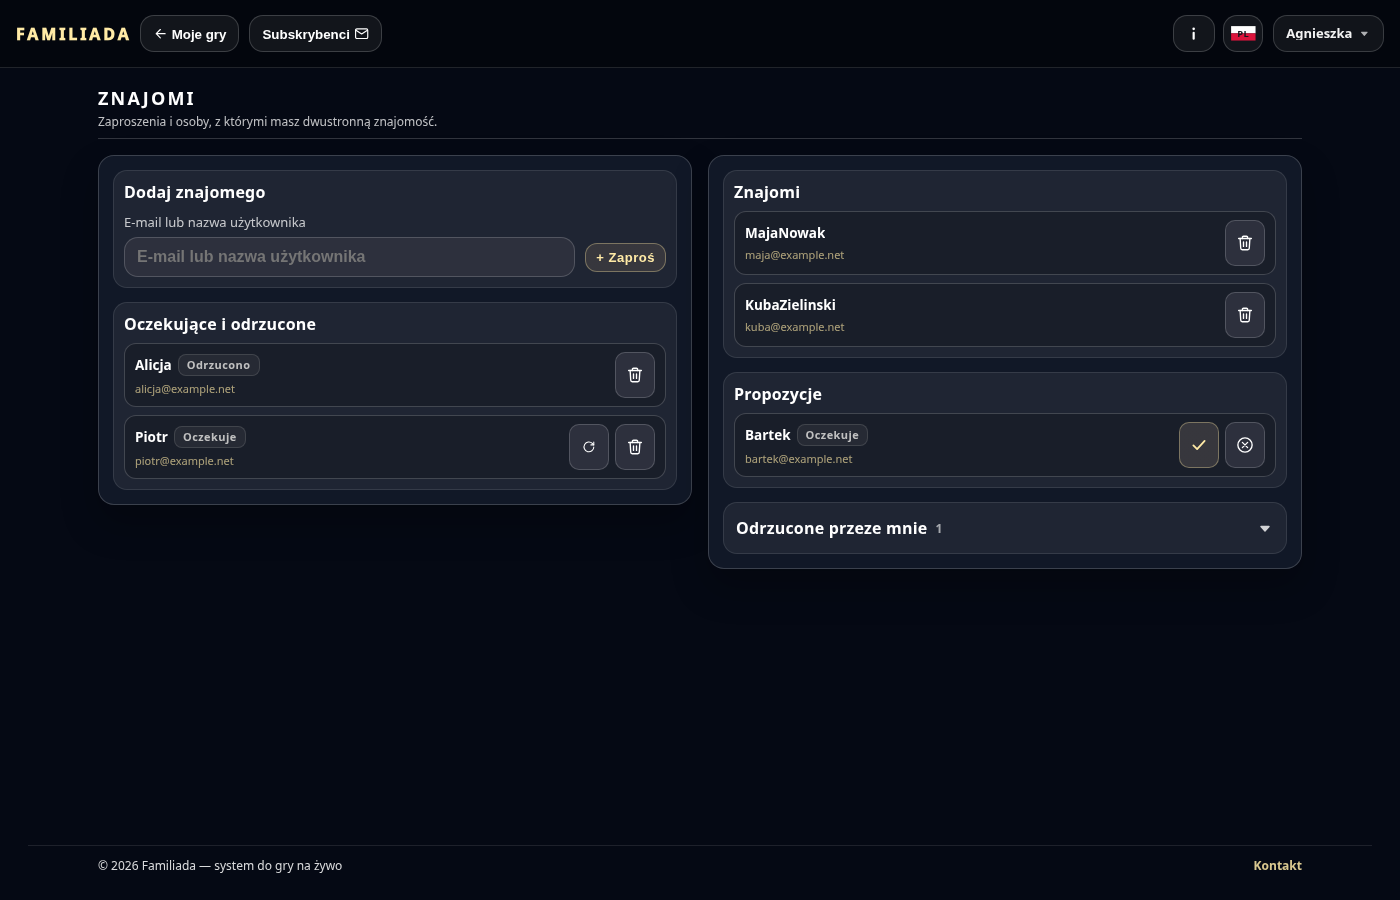
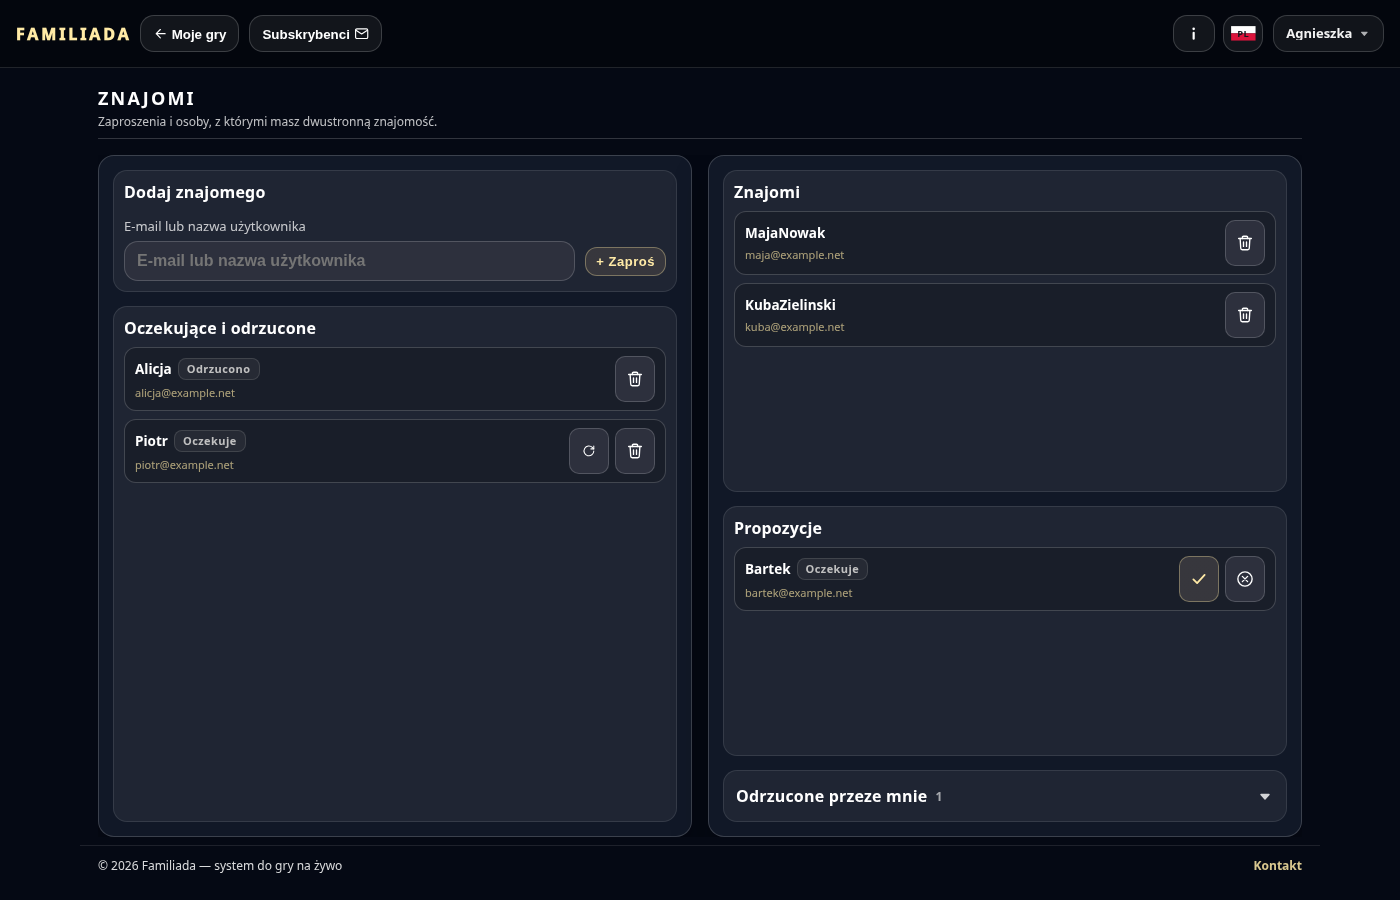
feat(contacts): fill workspace height with independent list scrolling

diff --git a/web/shared/css/contacts.css b/web/shared/css/contacts.css
@@ -1,10 +1,10 @@
 /* Znajomi i Subskrybenci: dwie karty, wspólne sekcje i wiersze odbiorców. */
-.contacts-body{ min-height: 100dvh; }
-.contacts-body > main.wrap{ width: 100%; max-width: 1240px; box-sizing: border-box; padding: 18px; }
+.contacts-body{ height: 100dvh; min-height: 100dvh; display: flex; flex-direction: column; overflow: hidden; }
+.contacts-body > main.wrap{ width: 100%; max-width: 1240px; box-sizing: border-box; padding: 18px; flex: 1 1 auto; min-height: 0; display: flex; flex-direction: column; overflow: hidden; }
 .contacts-body .bar{ margin-bottom: 16px; }
 .contacts-body .title{ font-size: 18px; font-weight: 900; letter-spacing: .12em; text-transform: uppercase; }
 .contacts-body .hint{ margin-top: 4px; font-size: 12px; color: var(--muted); }
-.contacts-layout{ display: grid; grid-template-columns: minmax(0,1fr) minmax(0,1fr); gap: 16px; align-items: start; }
+.contacts-layout{ display: grid; grid-template-columns: minmax(0,1fr) minmax(0,1fr); gap: 16px; align-items: stretch; flex: 1 1 auto; min-height: 0; overflow: hidden; }
 .contacts-card{ --under: #111827; min-width: 0; padding: 14px; background: #111827; border: 1px solid var(--line2); border-radius: 16px; box-shadow: 0 18px 36px rgba(0,0,0,.25); }
 .contacts-card .shareSection{ margin-top: 14px; }
 .contacts-card > .shareSection:first-child{ margin-top: 0; }
@@ -22,7 +22,7 @@
 }
 
 /* Wypustki korzystają wprost z games.css; na komputerze obie kolumny. */
-.contacts-tabs{ margin: 0; --tab-height: 36px; --tab-extra: 1px; }
+.contacts-tabs{ margin: 0; --tab-height: 36px; --tab-extra: 1px; flex: 1 1 auto; min-height: 0; }
 .contacts-tabs > .tabs-strip{ display: none; }
 .contacts-card[hidden]{ display: none; }
 @media (max-width: 720px){
@@ -34,3 +34,16 @@
   .contacts-tabs:has([data-contact-tab="invite"].active) #contactsInvite{ border-top-left-radius: 0; }
   .contacts-tabs:has([data-contact-tab="received"].active) #contactsReceived{ border-top-right-radius: 0; }
 }
+
+/* Wysokość karty wypełnia obszar pracy; scroll należy do poszczególnych list. */
+.contacts-card{ display: flex; flex-direction: column; min-height: 0; overflow: hidden; }
+#contactsOutgoing{ display: flex; flex-direction: column; flex: 1 1 auto; min-height: 0; }
+.contacts-card .shareSection{ display: flex; flex-direction: column; flex: 1 1 auto; min-height: 0; }
+.contacts-card .contacts-add,
+.contacts-card .shareSection:has(.shareList[hidden]){ flex: 0 0 auto; }
+.contacts-card .shareSectionTitle{ flex: 0 0 auto; }
+.contacts-card .shareList--scroll{ max-height: none; flex: 1 1 auto; min-height: 0; align-content: start; }
+.contacts-card .shareRow{ flex-shrink: 0; }
+.contacts-body .footer{ flex: 0 0 auto; }
+
+.contacts-card .shareSection[hidden]{ display: none; }

diff --git a/tests/e2e/friends.spec.js b/tests/e2e/friends.spec.js
@@ -289,6 +289,21 @@ test("kontakty: wypustki mobilne, liczniki i stan zakładek", async ({ browser }
       await expect(owner.page.locator("#contactsTabs")).toBeHidden();
       await expect(owner.page.locator("#contactsInvite")).toBeVisible();
       await expect(owner.page.locator("#contactsReceived")).toBeVisible();
+      const scrolling = await owner.page.evaluate(() => {
+        const cards = [...document.querySelectorAll(".contacts-card")].map(el => el.getBoundingClientRect());
+        const lists = [...document.querySelectorAll(".shareList")].filter(el => !el.hidden && el.querySelector(".shareRow"));
+        for (const list of lists) {
+          const row = list.querySelector(".shareRow");
+          for (let i=0;i<30;i++) list.append(row.cloneNode(true));
+        }
+        lists[0].scrollTop=70; lists[1].scrollTop=120;
+        return { independent: lists[0].scrollTop===70 && lists[1].scrollTop===120,
+          equal: Math.abs(cards[0].height-cards[1].height)<1,
+          full: cards.every(card => Math.abs(card.bottom-document.querySelector(".contacts-layout").getBoundingClientRect().bottom)<1),
+          pageOverflow: document.documentElement.scrollHeight>innerHeight };
+      });
+      expect(scrolling).toEqual({ independent:true, equal:true, full:true, pageOverflow:false });
+      await owner.page.reload();
       await owner.page.setViewportSize({ width: 390, height: 844 });
       await received.focus(); await received.press("ArrowLeft");
       await expect(invite).toHaveAttribute("aria-selected", "true");

diff --git a/docs/wdrozenia.md b/docs/wdrozenia.md
@@ -401,3 +401,7 @@ Stan szczegółowy:
 | 2026-10-11 | Powrót do kolejności E19 §5 | Użytkownik polecił wrócić do planu. Pierwszy brak pkt 2: mobilne wypustki kontaktów. Implementacja na branchu: CSS Gier, tabs.js/PAGES, liczniki, URL/powroty/focus Go, dwa panele desktop/jeden mobile; zachowanie formularza, keyboard/ARIA, osiem zrzutów. Unit 411/411, lokalny renderer bez overflow ✓. | Branch E2E kontaktów (nowy test zakładek + regresja active/odmowy), potem main. Następnie pkt 3: odmowy/cooldowny Subskrybentów, pkt 4 Bazy, pkt 5 Ankiety. |
 
 | 2026-10-11 | Kontakty / wysokość wypustek | Branch 38148022606 ✓: 3/3 (zakładki, active, odmowy). Użytkownik zgłosił zbyt wysokie wypustki. games.css ma bazowe 36 px i stare mobile 56 px; kontakty ustawiają 36 px/extra 1 px. Test mierzy wysokość, zrzuty odświeżane. | Powtórzyć branch po korekcie wysokości przed Pages; wcześniejszy zielony przebieg nie obejmuje tej korekty. |
+
+| 2026-10-11 | Kontakty / pełna wysokość i scroll wewnętrzny | Użytkownik doprecyzował pełną wysokość kart oraz przewijanie wewnątrz. Dodano flex/ograniczenie obszaru pracy i niezależny scroll list. | Odświeżyć zrzuty i powtórzyć branch z wysokością 36 px oraz pomiarem wewnętrznego przewijania przed Pages. |
+
+| 2026-10-11 | Kontakty / pełna wysokość lokalnie | 38148199774 ✓ sprawdził 36 px przed doprecyzowaniem wysokości. Nowy układ: karty desktop 682/682 px w viewport 900, telefon 605 px w viewport 844; brak scrolla strony, dwa niezależne scrolle 70/120 px, kafle zwarte. Unit 411/411 ✓, zrzuty odświeżone. | Nowy branch musi objąć także pełną wysokość i scrolle; poprzedni zielony nie jest pokryciem tej zmiany. |

diff --git a/docs/ujednolicenie-wygladu.md b/docs/ujednolicenie-wygladu.md
@@ -679,3 +679,9 @@ zaproszenie. Liczba sekcji/zakładki nie jest plakietką przychodzących spraw.
 wzorzec Gier; nie dziedziczyć starego mobilnego nadpisania games.css
 do 56 px. Kontakty używają tych samych kącików i CSS wypustek, z lokalnym
 ustawieniem wspólnego wymiaru 36/1 px. E2E sprawdza wysokość 36 px.
+
+**Kontakty — wysokość kart (doprecyzowanie):** karty wypełniają całą
+dostępną wysokość obszaru pracy; na telefonie pod wypustkami, na komputerze
+obie kolumny równej wysokości. Nagłówki/formularz zostają widoczne,
+przewijają się niezależnie listy wewnątrz. Strona nie rośnie z liczbą
+kafelków; footer poza obszarem przewijania.
